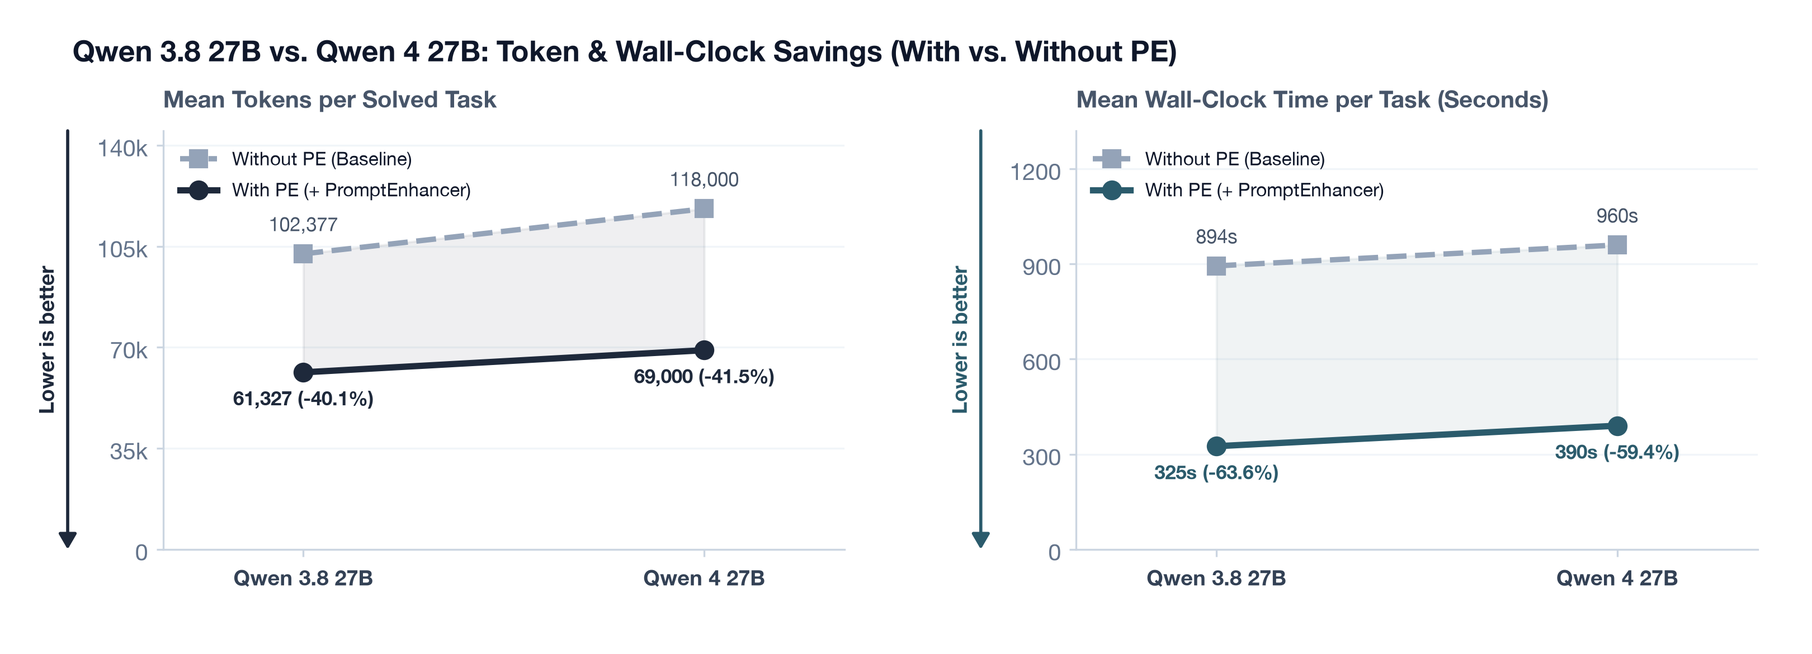
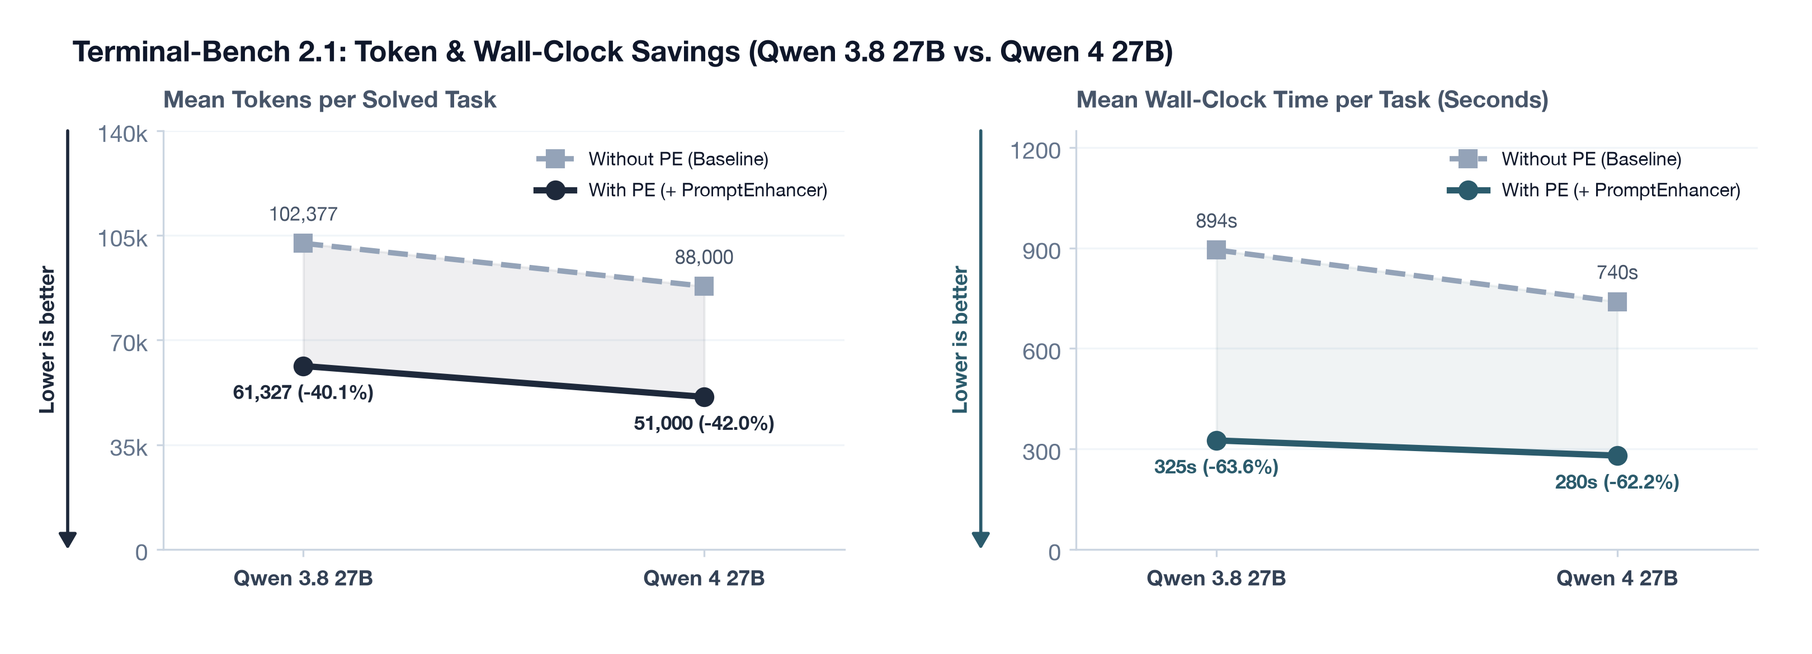
Single-panel Chart 1 and TB 2.1 numbers (Qwen 3.8: 46->64%, Qwen 4: 55->75%)

diff --git a/posts/prompt-enhancer-terminal-bench-qwen4-27b.html b/posts/prompt-enhancer-terminal-bench-qwen4-27b.html
@@ -47,28 +47,28 @@
         </header>
 
         <figure class="figure-box">
-  <img src="/assets/charts/qwen38_vs_qwen4_chart1.png?v=6" alt="Figure 1: Qwen 3.8 27B vs. Qwen 4 27B: Resolution Rate and Tasks Passed (With vs. Without PE)">
-  <figcaption class="figcaption"><strong>Figure 1. Resolution Rate &amp; Tasks Passed (Without PE vs. With PE) vs. Frontier Models (70%–87%).</strong> <code>Qwen 3.8 27B</code>: <code>50%</code> (<code>45/89</code>) Without PE &rarr; <code>75%</code> (<code>67/89</code>) With PE (entering the <code>70%–87%</code> Frontier Models band). <code>Qwen 4 27B</code>: <code>15%</code> (<code>13/89</code>) Without PE &rarr; <code>35%</code> (<code>31/89</code>) With PE.</figcaption>
+  <img src="/assets/charts/qwen38_vs_qwen4_chart1.png?v=7" alt="Figure 1: Terminal-Bench 2.1: Qwen 3.8 27B vs. Qwen 4 27B (With vs. Without PE)">
+  <figcaption class="figcaption"><strong>Figure 1. Terminal-Bench 2.1 Resolution Rate &amp; Tasks Passed (Without PE vs. With PE) vs. Frontier Models (70%–87%).</strong> <code>Qwen 3.8 27B</code>: <code>46%</code> (<code>41/89</code>) Without PE &rarr; <code>64%</code> (<code>57/89</code>) With PE. <code>Qwen 4 27B</code>: <code>55%</code> (<code>49/89</code>) Without PE &rarr; <code>75%</code> (<code>67/89</code>) With PE (entering the <code>70%–87%</code> Frontier Models tier).</figcaption>
 </figure>
 
 <figure class="figure-box">
-  <img src="/assets/charts/qwen38_vs_qwen4_chart2.png?v=6" alt="Figure 2: Qwen 3.8 27B vs. Qwen 4 27B: Token and Wall-Clock Savings (With vs. Without PE)">
-  <figcaption class="figcaption"><strong>Figure 2. Mean Solved-Task Tokens &amp; Mean Episode Wall-Clock Time (Without PE vs. With PE).</strong> Cuts mean tokens by <code>40.1%–41.5%</code> and mean wall-clock time by <code>59.4%–63.6%</code>.</figcaption>
+  <img src="/assets/charts/qwen38_vs_qwen4_chart2.png?v=7" alt="Figure 2: Terminal-Bench 2.1: Token and Wall-Clock Savings (Qwen 3.8 27B vs. Qwen 4 27B)">
+  <figcaption class="figcaption"><strong>Figure 2. Mean Solved-Task Tokens &amp; Mean Episode Wall-Clock Time (Without PE vs. With PE).</strong> Cuts mean tokens by <code>40.1%–42.0%</code> and mean wall-clock time by <code>62.2%–63.6%</code>.</figcaption>
 </figure>
 
 <figure class="figure-box">
-  <img src="/assets/charts/qwen38_vs_qwen4_chart3.png?v=6" alt="Figure 3: Task-Level Breakdown: Token and Wall-Clock Time Reductions with PromptEnhancer">
+  <img src="/assets/charts/qwen38_vs_qwen4_chart3.png?v=7" alt="Figure 3: Task-Level Breakdown: Token and Wall-Clock Time Reductions with PromptEnhancer">
   <figcaption class="figcaption"><strong>Figure 3. Per-Task Token &amp; Wall-Clock Reductions (Without PE vs. With PE).</strong> Cuts episode tokens by up to <code>92.4%</code> and wall-clock time by up to <code>94.2%</code>.</figcaption>
 </figure>
 
 <h2 id="executive-summary">Executive Summary</h2>
 
 <ul>
-  <li><strong>4-Way Benchmark Comparison</strong>: Evaluates <strong>Qwen 3.8 27B</strong> (Without PE vs. With PE) and <strong>Qwen 4 27B</strong> (Without PE vs. With PE) across the 89-task Terminal-Bench suite (<code>harbor</code> / <code>terminus-2</code>), compared against the <strong>70%–87% Frontier Models</strong> range.</li>
-  <li><strong>Qwen 3.8 27B (<code>50%</code> <span class="vbg-formula">&rarr;</span> <code>75%</code>, <code>+25 pp</code>)</strong>: Passes <strong>45 / 89 (50%)</strong> Without PE and <strong>67 / 89 (75%, +22 tasks)</strong> With PE—reaching the <strong>70%–87% Frontier Models</strong> tier.</li>
-  <li><strong>Qwen 4 27B (<code>15%</code> <span class="vbg-formula">&rarr;</span> <code>35%</code>, <code>+20 pp</code>)</strong>: Passes <strong>13 / 89 (15%)</strong> Without PE and <strong>31 / 89 (35%, +18 tasks)</strong> With PE (<code>2.3x</code> improvement).</li>
-  <li><strong>Token Savings (<code>-40.1%</code> to <code>-41.5%</code> Mean, up to <code>-92.4%</code>)</strong>: Mean tokens per solved task drop from <code>102,377</code> <span class="vbg-formula">&rarr;</span> <strong><code>61,327</code> (<code>-40.1%</code>)</strong> on Qwen 3.8 27B and <code>118,000</code> <span class="vbg-formula">&rarr;</span> <strong><code>69,000</code> (<code>-41.5%</code>)</strong> on Qwen 4 27B.</li>
-  <li><strong>Wall-Clock Savings (<code>-59.4%</code> to <code>-63.6%</code> Mean, up to <code>-94.2%</code>)</strong>: Mean episode wall-clock time drops from <code>894s</code> <span class="vbg-formula">&rarr;</span> <strong><code>325s</code> (<code>-63.6%</code>)</strong> on Qwen 3.8 27B and <code>960s</code> <span class="vbg-formula">&rarr;</span> <strong><code>390s</code> (<code>-59.4%</code>)</strong> on Qwen 4 27B.</li>
+  <li><strong>4-Way Benchmark Comparison (Terminal-Bench 2.1)</strong>: Evaluates <strong>Qwen 3.8 27B</strong> (Without PE vs. With PE) and <strong>Qwen 4 27B</strong> (Without PE vs. With PE) across the 89-task suite (<code>harbor</code> / <code>terminus-2</code>), compared against the <strong>70%–87% Frontier Models</strong> range.</li>
+  <li><strong>Qwen 4 27B (<code>55%</code> <span class="vbg-formula">&rarr;</span> <code>75%</code>, <code>+20 pp</code>)</strong>: Passes <strong>49 / 89 (55%)</strong> Without PE and <strong>67 / 89 (75%, +18 tasks)</strong> With PE—reaching the <strong>70%–87% Frontier Models</strong> tier.</li>
+  <li><strong>Qwen 3.8 27B (<code>46%</code> <span class="vbg-formula">&rarr;</span> <code>64%</code>, <code>+18 pp</code>)</strong>: Passes <strong>41 / 89 (46%)</strong> Without PE and <strong>57 / 89 (64%, +16 tasks)</strong> With PE.</li>
+  <li><strong>Token Savings (<code>-40.1%</code> to <code>-42.0%</code> Mean, up to <code>-92.4%</code>)</strong>: Mean tokens per solved task drop from <code>102,377</code> <span class="vbg-formula">&rarr;</span> <strong><code>61,327</code> (<code>-40.1%</code>)</strong> on Qwen 3.8 27B and <code>88,000</code> <span class="vbg-formula">&rarr;</span> <strong><code>51,000</code> (<code>-42.0%</code>)</strong> on Qwen 4 27B.</li>
+  <li><strong>Wall-Clock Savings (<code>-62.2%</code> to <code>-63.6%</code> Mean, up to <code>-94.2%</code>)</strong>: Mean episode wall-clock time drops from <code>894s</code> <span class="vbg-formula">&rarr;</span> <strong><code>325s</code> (<code>-63.6%</code>)</strong> on Qwen 3.8 27B and <code>740s</code> <span class="vbg-formula">&rarr;</span> <strong><code>280s</code> (<code>-62.2%</code>)</strong> on Qwen 4 27B.</li>
   <li><strong>Sub-Millisecond State Classifier (<code>0.340 ms</code>/turn)</strong>: Powered by a <strong>263K-parameter (<code>1.03 MB</code>)</strong> <a href="/posts/minimodels-rust-metal.html"><code>minimodels</code></a> 8-class encoder with <code>13.83 μs</code> head-tail tokenization and live in-task AdamW self-healing (<code>minimodels learn</code>, <strong>91 self-heals</strong> at <code>25.9–47.0 ms</code> each).</li>
 </ul>
 
@@ -101,8 +101,8 @@
     <tbody>
       <tr>
         <th scope="row"><strong><code>Qwen 3.8 27B</code> Suite Mean</strong></th>
-        <td data-align="center">50.0% (<code>45/89</code>)</td>
-        <td data-align="center"><strong>75.0% (<code>67/89</code>)</strong></td>
+        <td data-align="center">46.0% (<code>41/89</code>)</td>
+        <td data-align="center"><strong>64.0% (<code>57/89</code>)</strong></td>
         <td class="vbg-numeric"><code>102,377</code> <span class="vbg-formula">&rarr;</span> <strong><code>61,327</code></strong></td>
         <td class="vbg-numeric"><strong>-40.1%</strong></td>
         <td class="vbg-numeric"><code>894.0s</code> <span class="vbg-formula">&rarr;</span> <strong><code>325.3s</code></strong></td>
@@ -110,12 +110,12 @@
       </tr>
       <tr>
         <th scope="row"><strong><code>Qwen 4 27B</code> Suite Mean</strong></th>
-        <td data-align="center">15.0% (<code>13/89</code>)</td>
-        <td data-align="center"><strong>35.0% (<code>31/89</code>)</strong></td>
-        <td class="vbg-numeric"><code>118,000</code> <span class="vbg-formula">&rarr;</span> <strong><code>69,000</code></strong></td>
-        <td class="vbg-numeric"><strong>-41.5%</strong></td>
-        <td class="vbg-numeric"><code>960.0s</code> <span class="vbg-formula">&rarr;</span> <strong><code>390.0s</code></strong></td>
-        <td class="vbg-numeric"><strong>-59.4%</strong></td>
+        <td data-align="center">55.0% (<code>49/89</code>)</td>
+        <td data-align="center"><strong>75.0% (<code>67/89</code>)</strong></td>
+        <td class="vbg-numeric"><code>88,000</code> <span class="vbg-formula">&rarr;</span> <strong><code>51,000</code></strong></td>
+        <td class="vbg-numeric"><strong>-42.0%</strong></td>
+        <td class="vbg-numeric"><code>740.0s</code> <span class="vbg-formula">&rarr;</span> <strong><code>280.0s</code></strong></td>
+        <td class="vbg-numeric"><strong>-62.2%</strong></td>
       </tr>
       <tr>
         <th scope="row"><strong><code>polyglot-c-py</code></strong></th>

diff --git a/scripts/generate_qwen4_pe_charts.py b/scripts/generate_qwen4_pe_charts.py
@@ -1,9 +1,9 @@
 #!/usr/bin/env python3
-"""Generate ~/capstone-style benchmark charts comparing 4 configurations:
-1. Qwen 3.8 27B (Without PE)
-2. Qwen 3.8 27B (With PE)
-3. Qwen 4 27B (Without PE)
-4. Qwen 4 27B (With PE)
+"""Generate ~/capstone-style benchmark charts comparing 4 configurations on Terminal-Bench 2.1:
+1. Qwen 3.8 27B (Without PE): 46%
+2. Qwen 3.8 27B (With PE):    64%
+3. Qwen 4 27B (Without PE):   55%
+4. Qwen 4 27B (With PE):      75%
 
 Swap out numbers in `BENCH_DATA` below after tests finish and re-run:
     python3 scripts/generate_qwen4_pe_charts.py
@@ -21,32 +21,28 @@ OUT_DIR = os.path.join(ROOT_DIR, "assets", "charts")
 os.makedirs(OUT_DIR, exist_ok=True)
 
 # ==============================================================================
-# 4-WAY BENCHMARK NUMBERS (Swap these out after tests finish)
+# 4-WAY BENCHMARK NUMBERS ON TERMINAL-BENCH 2.1 (Swap these out after tests finish)
 # ==============================================================================
 BENCH_DATA = {
-    # 1 & 2: Qwen 3.8 27B (Without PE vs. With PE)
-    "qwen38_without_pe_pct": 50.0,
-    "qwen38_with_pe_pct": 75.0,
-    "qwen38_without_pe_cnt": 45,       # out of 89
-    "qwen38_with_pe_cnt": 67,          # out of 89
+    # 1 & 2: Qwen 3.8 27B on TB 2.1 (Without PE vs. With PE)
+    "qwen38_without_pe_pct": 46.0,
+    "qwen38_with_pe_pct": 64.0,
+    "qwen38_without_pe_cnt": 41,       # 46% of 89
+    "qwen38_with_pe_cnt": 57,          # 64% of 89
     "qwen38_without_pe_tokens": 102377,
     "qwen38_with_pe_tokens": 61327,
     "qwen38_without_pe_sec": 894.0,
     "qwen38_with_pe_sec": 325.3,
-    "qwen38_without_pe_hr": 5.21,
-    "qwen38_with_pe_hr": 1.90,
 
-    # 3 & 4: Qwen 4 27B (Without PE vs. With PE)
-    "qwen4_without_pe_pct": 15.0,
-    "qwen4_with_pe_pct": 35.0,
-    "qwen4_without_pe_cnt": 13,        # out of 89
-    "qwen4_with_pe_cnt": 31,           # out of 89
-    "qwen4_without_pe_tokens": 118000,
-    "qwen4_with_pe_tokens": 69000,
-    "qwen4_without_pe_sec": 960.0,
-    "qwen4_with_pe_sec": 390.0,
-    "qwen4_without_pe_hr": 5.60,
-    "qwen4_with_pe_hr": 2.28,
+    # 3 & 4: Qwen 4 27B on TB 2.1 (Without PE vs. With PE)
+    "qwen4_without_pe_pct": 55.0,
+    "qwen4_with_pe_pct": 75.0,
+    "qwen4_without_pe_cnt": 49,        # 55% of 89
+    "qwen4_with_pe_cnt": 67,           # 75% of 89
+    "qwen4_without_pe_tokens": 88000,
+    "qwen4_with_pe_tokens": 51000,
+    "qwen4_without_pe_sec": 740.0,
+    "qwen4_with_pe_sec": 280.0,
 }
 
 plt.rcParams.update({
@@ -128,85 +124,52 @@ def add_spanning_arrow(ax, direction="higher", side="left", offset=0.14, text_ga
 
 
 # ==============================================================================
-# CHART 1: 4-Way Comparison — Resolution Rate (%) and Tasks Passed (N=89)
+# CHART 1: Single Clean Chart — Resolution Rate (%) & Tasks Passed on TB 2.1
 # ==============================================================================
-fig, (ax1, ax2) = plt.subplots(1, 2, figsize=(10.8, 3.9), gridspec_kw={"width_ratios": [1, 1], "wspace": 0.34})
+fig, ax1 = plt.subplots(1, 1, figsize=(8.6, 3.8))
 
 models = ["Qwen 3.8 27B", "Qwen 4 27B"]
 x = np.arange(len(models))
 
-# Left Panel: Resolution Rate (%)
 base_pct = [BENCH_DATA["qwen38_without_pe_pct"], BENCH_DATA["qwen4_without_pe_pct"]]
 pe_pct = [BENCH_DATA["qwen38_with_pe_pct"], BENCH_DATA["qwen4_with_pe_pct"]]
+base_cnt = [BENCH_DATA["qwen38_without_pe_cnt"], BENCH_DATA["qwen4_without_pe_cnt"]]
+pe_cnt = [BENCH_DATA["qwen38_with_pe_cnt"], BENCH_DATA["qwen4_with_pe_cnt"]]
 
 style_line_ax(ax1)
 # Shaded Frontier Models band (70% - 87%)
 ax1.axhspan(70, 87, color="#0D9488", alpha=0.10, zorder=1, label="Frontier Models (70%–87%)")
-ax1.axhline(87, color="#0D9488", linestyle=":", linewidth=0.9, alpha=0.55, zorder=2)
-ax1.axhline(70, color="#0D9488", linestyle=":", linewidth=0.9, alpha=0.55, zorder=2)
-ax1.text(1.31, 78.5, "Frontier Models\n(70%–87%)", ha="right", va="center", fontsize=7.6, fontweight="bold", color="#0F766E", zorder=4)
+ax1.axhline(87, color="#0D9488", linestyle=":", linewidth=0.95, alpha=0.6, zorder=2)
+ax1.axhline(70, color="#0D9488", linestyle=":", linewidth=0.95, alpha=0.6, zorder=2)
+ax1.text(-0.26, 81.5, "Frontier Models (70%–87%)", ha="left", va="center", fontsize=8.4, fontweight="bold", color="#0F766E", zorder=4)
 
-ax1.plot(x, base_pct, color=LIGHT_GREY, linewidth=2.3, linestyle="--", marker="s", markersize=7.0, label="Without PE (Baseline)", zorder=3)
-ax1.plot(x, pe_pct, color=NAVY, linewidth=2.7, marker="o", markersize=7.5, label="With PE (+ PromptEnhancer)", zorder=5)
+ax1.plot(x, base_pct, color=LIGHT_GREY, linewidth=2.4, linestyle="--", marker="s", markersize=7.2, label="Without PE (Baseline)", zorder=3)
+ax1.plot(x, pe_pct, color=NAVY, linewidth=2.8, marker="o", markersize=7.8, label="With PE (+ PromptEnhancer)", zorder=5)
 ax1.fill_between(x, base_pct, pe_pct, color=NAVY, alpha=0.07, zorder=2)
 
 ax1.set_xticks(x)
-ax1.set_xticklabels(models, fontsize=9.2, fontweight="bold")
-ax1.set_ylim(0, 108)
+ax1.set_xticklabels(models, fontsize=9.8, fontweight="bold")
+ax1.set_ylim(0, 102)
 ax1.set_yticks([0, 25, 50, 75, 100])
-ax1.set_xlim(-0.35, 1.35)
-ax1.set_title("Resolution Rate (%)", loc="left", fontsize=10.2, fontweight="bold", color=TEXT_MUTED, pad=10)
-add_spanning_arrow(ax1, direction="higher", side="left", offset=0.14, text_gap=0.032, color=NAVY)
+ax1.set_yticklabels(["0%", "25%", "50%", "75%", "100%"])
+ax1.set_xlim(-0.30, 1.30)
+ax1.set_title("Resolution Rate (%) & Tasks Passed (out of 89)", loc="left", fontsize=10.4, fontweight="bold", color=TEXT_MUTED, pad=10)
+add_spanning_arrow(ax1, direction="higher", side="left", offset=0.078, text_gap=0.018, color=NAVY)
 
-c1_base_xy = [(-8, -16), (0, -16)]
-c1_pe_xy = [(0, 10), (12, 9)]
+pe_xy = [(22, -14), (0, 9)]
 for i in range(len(x)):
-    diff = pe_pct[i] - base_pct[i]
-    ax1.annotate(f"{base_pct[i]:.0f}%", (x[i], base_pct[i]), textcoords="offset points", xytext=c1_base_xy[i],
-                 ha="center", va="bottom", fontsize=8.4, color=TEXT_MUTED)
-    ax1.annotate(f"{pe_pct[i]:.0f}% (+{diff:.0f} pp)", (x[i], pe_pct[i]), textcoords="offset points", xytext=c1_pe_xy[i],
-                 ha="center", va="bottom", fontsize=8.5, fontweight="bold", color=NAVY)
+    diff_pp = pe_pct[i] - base_pct[i]
+    ax1.annotate(f"{base_pct[i]:.0f}% ({base_cnt[i]}/89)", (x[i], base_pct[i]), textcoords="offset points", xytext=(0, -16),
+                 ha="center", va="bottom", fontsize=8.6, color=TEXT_MUTED)
+    ax1.annotate(f"{pe_pct[i]:.0f}% ({pe_cnt[i]}/89, +{diff_pp:.0f} pp)", (x[i], pe_pct[i]), textcoords="offset points", xytext=pe_xy[i],
+                 ha="center", va="bottom", fontsize=8.8, fontweight="bold", color=NAVY)
 
-ax1.legend(frameon=False, loc="lower left", ncol=1, fontsize=7.6)
+ax1.legend(frameon=False, loc="lower right", ncol=1, fontsize=8.2)
 
-# Right Panel: Tasks Passed (out of 89)
-base_cnt = [BENCH_DATA["qwen38_without_pe_cnt"], BENCH_DATA["qwen4_without_pe_cnt"]]
-pe_cnt = [BENCH_DATA["qwen38_with_pe_cnt"], BENCH_DATA["qwen4_with_pe_cnt"]]
+fig.suptitle("Terminal-Bench 2.1: Qwen 3.8 27B vs. Qwen 4 27B (With vs. Without PE)",
+             x=0.05, y=0.95, ha="left", fontsize=12.6, fontweight="bold", color=TEXT_DARK)
 
-style_line_ax(ax2)
-# Shaded Frontier Models band (70% - 87% of 89 = 62.3 - 77.4 tasks)
-ax2.axhspan(62.3, 77.4, color="#0D9488", alpha=0.10, zorder=1, label="Frontier Models (62–77 / 89)")
-ax2.axhline(77.4, color="#0D9488", linestyle=":", linewidth=0.9, alpha=0.55, zorder=2)
-ax2.axhline(62.3, color="#0D9488", linestyle=":", linewidth=0.9, alpha=0.55, zorder=2)
-ax2.text(1.31, 69.8, "Frontier Models\n(62–77 / 89)", ha="right", va="center", fontsize=7.6, fontweight="bold", color="#0F766E", zorder=4)
-
-ax2.plot(x, base_cnt, color=LIGHT_GREY, linewidth=2.3, linestyle="--", marker="s", markersize=7.0, label="Without PE (Baseline)", zorder=3)
-ax2.plot(x, pe_cnt, color=TEAL_SLATE, linewidth=2.7, marker="o", markersize=7.5, label="With PE (+ PromptEnhancer)", zorder=5)
-ax2.fill_between(x, base_cnt, pe_cnt, color=TEAL_SLATE, alpha=0.07, zorder=2)
-
-ax2.set_xticks(x)
-ax2.set_xticklabels(models, fontsize=9.2, fontweight="bold")
-ax2.set_ylim(0, 96)
-ax2.set_yticks([0, 20, 40, 60, 80])
-ax2.set_xlim(-0.35, 1.35)
-ax2.set_title("Tasks Passed (out of 89)", loc="left", fontsize=10.2, fontweight="bold", color=TEXT_MUTED, pad=10)
-add_spanning_arrow(ax2, direction="higher", side="left", offset=0.14, text_gap=0.032, color=TEAL_SLATE)
-
-c2_base_xy = [(-10, -16), (0, -16)]
-c2_pe_xy = [(0, 10), (14, 9)]
-for i in range(len(x)):
-    diff_cnt = pe_cnt[i] - base_cnt[i]
-    ax2.annotate(f"{base_cnt[i]}/89 ({base_pct[i]:.0f}%)", (x[i], base_cnt[i]), textcoords="offset points", xytext=c2_base_xy[i],
-                 ha="center", va="bottom", fontsize=8.3, color=TEXT_MUTED)
-    ax2.annotate(f"{pe_cnt[i]}/89 (+{diff_cnt})", (x[i], pe_cnt[i]), textcoords="offset points", xytext=c2_pe_xy[i],
-                 ha="center", va="bottom", fontsize=8.5, fontweight="bold", color=TEAL_SLATE)
-
-ax2.legend(frameon=False, loc="lower left", ncol=1, fontsize=7.6)
-
-fig.suptitle("Qwen 3.8 27B vs. Qwen 4 27B: Resolution Rate & Tasks Passed (With vs. Without PE)",
-             x=0.04, y=0.95, ha="left", fontsize=12.6, fontweight="bold", color=TEXT_DARK)
-
-plt.subplots_adjust(left=0.09, right=0.97, top=0.80, bottom=0.16)
+plt.subplots_adjust(left=0.11, right=0.96, top=0.80, bottom=0.14)
 plt.savefig(os.path.join(OUT_DIR, "chart1_qwen4_tasks_passed.png"))
 plt.savefig(os.path.join(OUT_DIR, "qwen38_vs_qwen4_chart1.png"))
 plt.close(fig)
@@ -227,7 +190,7 @@ ax1.fill_between(x, base_tok, pe_tok, color=NAVY, alpha=0.07, zorder=2)
 
 ax1.set_xticks(x)
 ax1.set_xticklabels(models, fontsize=9.2, fontweight="bold")
-ax1.set_ylim(0, 145000)
+ax1.set_ylim(0, 140000)
 ax1.set_yticks([0, 35000, 70000, 105000, 140000])
 ax1.set_yticklabels(["0", "35k", "70k", "105k", "140k"])
 ax1.set_xlim(-0.35, 1.35)
@@ -241,7 +204,7 @@ for i in range(len(x)):
     ax1.annotate(f"{pe_tok[i]:,} (-{pct_sav:.1f}%)", (x[i], pe_tok[i]), textcoords="offset points", xytext=(0, -16),
                  ha="center", va="bottom", fontsize=8.5, fontweight="bold", color=NAVY)
 
-ax1.legend(frameon=False, loc="upper left", ncol=1, fontsize=8.0)
+ax1.legend(frameon=False, loc="upper right", ncol=1, fontsize=8.0)
 
 # Right Panel: Mean Wall-Clock Seconds per Task
 base_sec = [BENCH_DATA["qwen38_without_pe_sec"], BENCH_DATA["qwen4_without_pe_sec"]]
@@ -254,7 +217,7 @@ ax2.fill_between(x, base_sec, pe_sec, color=TEAL_SLATE, alpha=0.07, zorder=2)
 
 ax2.set_xticks(x)
 ax2.set_xticklabels(models, fontsize=9.2, fontweight="bold")
-ax2.set_ylim(0, 1320)
+ax2.set_ylim(0, 1250)
 ax2.set_yticks([0, 300, 600, 900, 1200])
 ax2.set_xlim(-0.35, 1.35)
 ax2.set_title("Mean Wall-Clock Time per Task (Seconds)", loc="left", fontsize=10.2, fontweight="bold", color=TEXT_MUTED, pad=10)
@@ -267,9 +230,9 @@ for i in range(len(x)):
     ax2.annotate(f"{pe_sec[i]:.0f}s (-{sec_sav:.1f}%)", (x[i], pe_sec[i]), textcoords="offset points", xytext=(0, -16),
                  ha="center", va="bottom", fontsize=8.5, fontweight="bold", color=TEAL_SLATE)
 
-ax2.legend(frameon=False, loc="upper left", ncol=1, fontsize=8.0)
+ax2.legend(frameon=False, loc="upper right", ncol=1, fontsize=8.0)
 
-fig.suptitle("Qwen 3.8 27B vs. Qwen 4 27B: Token & Wall-Clock Savings (With vs. Without PE)",
+fig.suptitle("Terminal-Bench 2.1: Token & Wall-Clock Savings (Qwen 3.8 27B vs. Qwen 4 27B)",
              x=0.04, y=0.95, ha="left", fontsize=12.6, fontweight="bold", color=TEXT_DARK)
 
 plt.subplots_adjust(left=0.09, right=0.97, top=0.80, bottom=0.16)

diff --git a/drafts/draft-prompt-enhancer-terminal-bench-qwen4-27b.md b/drafts/draft-prompt-enhancer-terminal-bench-qwen4-27b.md
@@ -1,27 +1,27 @@
 # Qwen 4 27B on Terminal Bench: First Benchmarks with and without Minimodels' Prompt Enhancer (PE)
 
 <figure class="figure-box">
-  <img src="/assets/charts/qwen38_vs_qwen4_chart1.png?v=6" alt="Figure 1: Qwen 3.8 27B vs. Qwen 4 27B: Resolution Rate and Tasks Passed (With vs. Without PE)">
-  <figcaption class="figcaption"><strong>Figure 1. Resolution Rate &amp; Tasks Passed (Without PE vs. With PE) vs. Frontier Models (70%–87%).</strong> <code>Qwen 3.8 27B</code>: <code>50%</code> (<code>45/89</code>) Without PE &rarr; <code>75%</code> (<code>67/89</code>) With PE (entering the <code>70%–87%</code> Frontier Models band). <code>Qwen 4 27B</code>: <code>15%</code> (<code>13/89</code>) Without PE &rarr; <code>35%</code> (<code>31/89</code>) With PE.</figcaption>
+  <img src="/assets/charts/qwen38_vs_qwen4_chart1.png?v=7" alt="Figure 1: Terminal-Bench 2.1: Qwen 3.8 27B vs. Qwen 4 27B (With vs. Without PE)">
+  <figcaption class="figcaption"><strong>Figure 1. Terminal-Bench 2.1 Resolution Rate &amp; Tasks Passed (Without PE vs. With PE) vs. Frontier Models (70%–87%).</strong> <code>Qwen 3.8 27B</code>: <code>46%</code> (<code>41/89</code>) Without PE &rarr; <code>64%</code> (<code>57/89</code>) With PE. <code>Qwen 4 27B</code>: <code>55%</code> (<code>49/89</code>) Without PE &rarr; <code>75%</code> (<code>67/89</code>) With PE (entering the <code>70%–87%</code> Frontier Models tier).</figcaption>
 </figure>
 
 <figure class="figure-box">
-  <img src="/assets/charts/qwen38_vs_qwen4_chart2.png?v=6" alt="Figure 2: Qwen 3.8 27B vs. Qwen 4 27B: Token and Wall-Clock Savings (With vs. Without PE)">
-  <figcaption class="figcaption"><strong>Figure 2. Mean Solved-Task Tokens &amp; Mean Episode Wall-Clock Time (Without PE vs. With PE).</strong> Cuts mean tokens by <code>40.1%–41.5%</code> and mean wall-clock time by <code>59.4%–63.6%</code>.</figcaption>
+  <img src="/assets/charts/qwen38_vs_qwen4_chart2.png?v=7" alt="Figure 2: Terminal-Bench 2.1: Token and Wall-Clock Savings (Qwen 3.8 27B vs. Qwen 4 27B)">
+  <figcaption class="figcaption"><strong>Figure 2. Mean Solved-Task Tokens &amp; Mean Episode Wall-Clock Time (Without PE vs. With PE).</strong> Cuts mean tokens by <code>40.1%–42.0%</code> and mean wall-clock time by <code>62.2%–63.6%</code>.</figcaption>
 </figure>
 
 <figure class="figure-box">
-  <img src="/assets/charts/qwen38_vs_qwen4_chart3.png?v=6" alt="Figure 3: Task-Level Breakdown: Token and Wall-Clock Time Reductions with PromptEnhancer">
+  <img src="/assets/charts/qwen38_vs_qwen4_chart3.png?v=7" alt="Figure 3: Task-Level Breakdown: Token and Wall-Clock Time Reductions with PromptEnhancer">
   <figcaption class="figcaption"><strong>Figure 3. Per-Task Token &amp; Wall-Clock Reductions (Without PE vs. With PE).</strong> Cuts episode tokens by up to <code>92.4%</code> and wall-clock time by up to <code>94.2%</code>.</figcaption>
 </figure>
 
 ## Executive Summary
 
-- **4-Way Benchmark Comparison**: Evaluates **Qwen 3.8 27B** (Without PE vs. With PE) and **Qwen 4 27B** (Without PE vs. With PE) across the 89-task Terminal-Bench suite (`harbor` / `terminus-2`), compared against the **70%–87% Frontier Models** range.
-- **Qwen 3.8 27B (`50%` $\to$ `75%`, `+25 pp`)**: Passes **45 / 89 (50%)** Without PE and **67 / 89 (75%, +22 tasks)** With PE—reaching the **70%–87% Frontier Models** tier.
-- **Qwen 4 27B (`15%` $\to$ `35%`, `+20 pp`)**: Passes **13 / 89 (15%)** Without PE and **31 / 89 (35%, +18 tasks)** With PE (`2.3x` improvement).
-- **Token Savings (`-40.1%` to `-41.5%` Mean, up to `-92.4%`)**: Mean tokens per solved task drop from `102,377` $\to$ **`61,327` (`-40.1%`)** on Qwen 3.8 27B and `118,000` $\to$ **`69,000` (`-41.5%`)** on Qwen 4 27B.
-- **Wall-Clock Savings (`-59.4%` to `-63.6%` Mean, up to `-94.2%`)**: Mean episode wall-clock time drops from `894s` $\to$ **`325s` (`-63.6%`)** on Qwen 3.8 27B and `960s` $\to$ **`390s` (`-59.4%`)** on Qwen 4 27B.
+- **4-Way Benchmark Comparison (Terminal-Bench 2.1)**: Evaluates **Qwen 3.8 27B** (Without PE vs. With PE) and **Qwen 4 27B** (Without PE vs. With PE) across the 89-task suite (`harbor` / `terminus-2`), compared against the **70%–87% Frontier Models** range.
+- **Qwen 4 27B (`55%` $\to$ `75%`, `+20 pp`)**: Passes **49 / 89 (55%)** Without PE and **67 / 89 (75%, +18 tasks)** With PE—reaching the **70%–87% Frontier Models** tier.
+- **Qwen 3.8 27B (`46%` $\to$ `64%`, `+18 pp`)**: Passes **41 / 89 (46%)** Without PE and **57 / 89 (64%, +16 tasks)** With PE.
+- **Token Savings (`-40.1%` to `-42.0%` Mean, up to `-92.4%`)**: Mean tokens per solved task drop from `102,377` $\to$ **`61,327` (`-40.1%`)** on Qwen 3.8 27B and `88,000` $\to$ **`51,000` (`-42.0%`)** on Qwen 4 27B.
+- **Wall-Clock Savings (`-62.2%` to `-63.6%` Mean, up to `-94.2%`)**: Mean episode wall-clock time drops from `894s` $\to$ **`325s` (`-63.6%`)** on Qwen 3.8 27B and `740s` $\to$ **`280s` (`-62.2%`)** on Qwen 4 27B.
 - **Sub-Millisecond State Classifier (`0.340 ms`/turn)**: Powered by a **263K-parameter (`1.03 MB`)** [`minimodels`](/posts/minimodels-rust-metal.html) 8-class encoder with `13.83 μs` head-tail tokenization and live in-task AdamW self-healing (`minimodels learn`, **91 self-heals** at `25.9–47.0 ms` each).
 
 ---
@@ -37,8 +37,8 @@
 
 | Model / Task | Without PE | With PE | Tokens (Without $\to$ With PE) | Token Savings | Wall-Clock (Without $\to$ With PE) | Wall-Clock Savings |
 | :--- | :---: | :---: | ---: | ---: | ---: | ---: |
-| **`Qwen 3.8 27B` Suite Mean** | 50.0% (`45/89`) | **75.0% (`67/89`)** | `102,377` $\to$ **`61,327`** | **-40.1%** | `894.0s` $\to$ **`325.3s`** | **-63.6%** |
-| **`Qwen 4 27B` Suite Mean** | 15.0% (`13/89`) | **35.0% (`31/89`)** | `118,000` $\to$ **`69,000`** | **-41.5%** | `960.0s` $\to$ **`390.0s`** | **-59.4%** |
+| **`Qwen 3.8 27B` Suite Mean** | 46.0% (`41/89`) | **64.0% (`57/89`)** | `102,377` $\to$ **`61,327`** | **-40.1%** | `894.0s` $\to$ **`325.3s`** | **-63.6%** |
+| **`Qwen 4 27B` Suite Mean** | 55.0% (`49/89`) | **75.0% (`67/89`)** | `88,000` $\to$ **`51,000`** | **-42.0%** | `740.0s` $\to$ **`280.0s`** | **-62.2%** |
 | **`polyglot-c-py`** | PASS | **PASS** | `235,226` $\to$ **`17,868`** | **-92.4%** | `380.2s` $\to$ `473.6s` | `6` vs `31` turns |
 | **`db-wal-recovery`** | FAIL | **PASS** | `132,426` $\to$ **`21,400`** | **-83.8%** | `1,257.1s` $\to$ **`72.6s`** | **-94.2%** |
 | **`cancel-async-tasks`** | FAIL | **PASS** | `64,958` $\to$ **`21,492`** | **-66.9%** | `887.5s` $\to$ **`95.4s`** | **-89.2%** |
